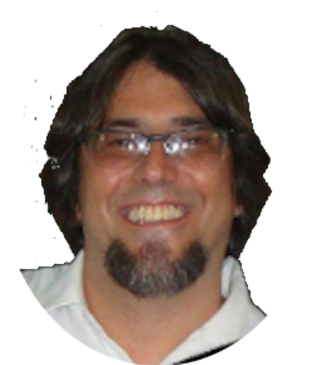
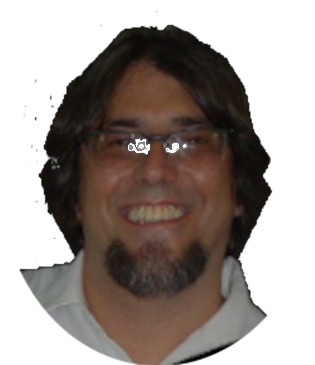
mudanças para o portfolio

diff --git a/css/style.css b/css/style.css
@@ -20,8 +20,9 @@ h1 {
 
 #container {
   margin: auto;
-  margin-top: 25px;
+  margin-top: 75px;
   width: 85vw;
+  
   
      
 }
@@ -35,6 +36,7 @@ h1 {
   padding-bottom: 20px;
   margin-bottom: -75px;
   margin-top: 25px; 
+ 
 }
 
 
@@ -68,7 +70,7 @@ box-shadow: .2px .2px 5px rgb(72, 82, 63) ;
 }
 #msg span {
     display: inline-block;
-    animation: msg 10s linear infinite;
+    animation: msg 7s linear infinite;
  }
 
   @keyframes msg {
@@ -76,14 +78,15 @@ box-shadow: .2px .2px 5px rgb(72, 82, 63) ;
       transform: translate(-100%, 0);
     }
     100% {
-      transform: translate(180%, 0);
+      transform: translate(100%, 0);
     }
   }
 
-  #planet {
+  #me {
 
     text-align: center;
     margin:auto;
+    margin-top: -20px;
     
   }
 

diff --git a/index.html b/index.html
@@ -16,10 +16,10 @@
    <div id="container">
        <section>
             <div id="msg">
-                <span>*** Hello, world!!! ***</span>
+                <span>*** Hello, world!!! *** Olá, mundo!!! ***</span>
             </div>
-            <div id="planet">
-                <img id="img" src="./img/earth-320.png" alt="">
+            <div id="me">
+                <img id="img" src="./img/Me_portfolio.png" alt="">
             </div>
        
             <div id="right">
